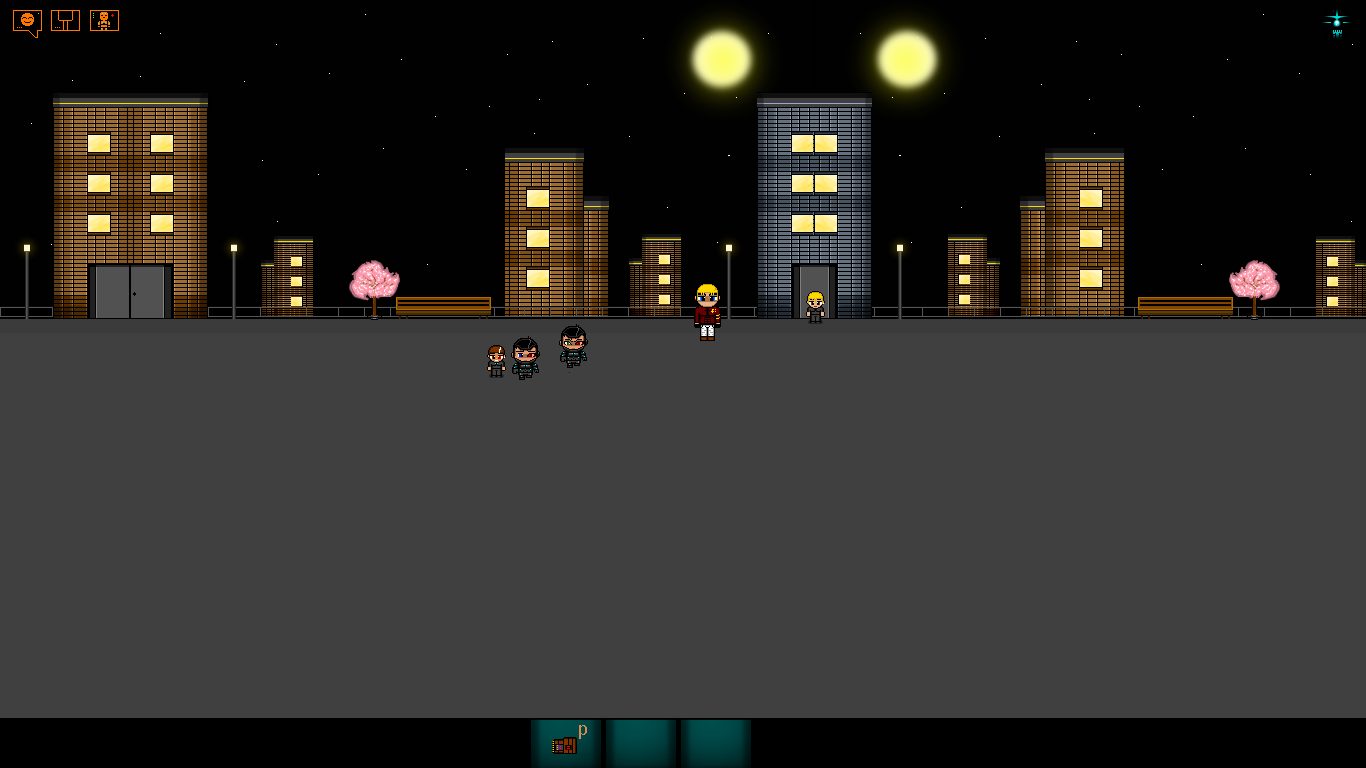
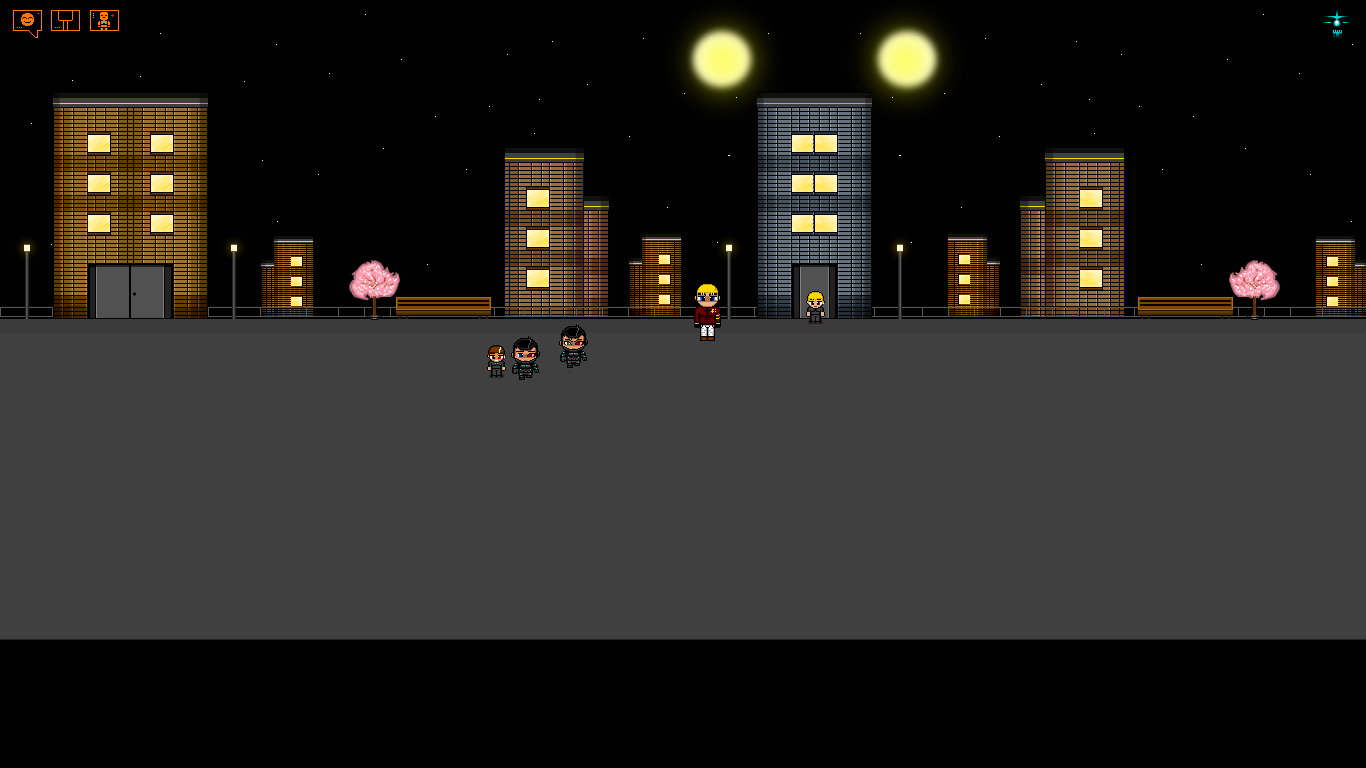
Added my project

Changed region(s): [[0.0, 0.8125, 1.0, 1.0]]

diff --git a/resources/js/modules/module1.js b/resources/js/modules/module1.js
@@ -3,9 +3,16 @@
 //TODO ----------------------------------------------
 export const prenom = "romain"
 
-export function argent (){
-let image = document.querySelector("#image")
-image.src = "img/Map%20test2.png"
-console.log(image.src);
-}
+/* export function argent() {
+    let image = document.querySelector("#image")
+    image.src = "img/Map%20test2.png"
+    console.log(image.src);
+    console.log(joueur);
+} */
 
+export function modifierargent(joueur, montant) {
+    joueur.argent += montant
+    console.log(joueur);
+    document.querySelector("#argentjoueur").textContent = joueur.argent
+
+}

diff --git a/resources/js/modules/index.js b/resources/js/modules/index.js
@@ -2,11 +2,13 @@
 //TODO ------- IMPORTS ET DECLARATION -----
 //TODO ----------------------------------------------
 const genius = $
-import { prenom, argent } from "./module1.js";
+import { Joueur } from "./classes.js";
+import { prenom, modifierargent } from "./module1.js";
 console.log(genius.date());
-
+export let joueur = new Joueur('Invité')
 console.log(prenom);
+console.log(joueur);
 
 genius.event("#button", "mousedown", () => {
-    argent()
+    modifierargent(joueur,10)
 })

diff --git a/resources/index.html b/resources/index.html
@@ -9,7 +9,13 @@
 
 <body>
   <button id="button">Test</button>
-  <img id="image" src="img/Map test.png" alt="" srcset="">
+  <img id="image" src="img/Map test.png">
+
+  <div id="blockinfojoueur">
+
+    <span id="argentjoueur"></span>
+  </div>
+
   </div>
   <!-- Neutralino.js client. This file is gitignored, 
         because `neu update` typically downloads it.

diff --git a/resources/styles.css b/resources/styles.css
@@ -22,3 +22,20 @@ button {
     left: 50%;
     z-index: 1;
 }
+
+#blockinfojoueur {
+    position: absolute;
+    color: red;
+    z-index: 2;
+    background-color: black;
+    width: 50px;
+    height: 420px;
+    top: 50%;
+    left: 50%;
+    transform: translate(-50%, -50%);
+    display: flex;
+}
+
+#logoargent {
+    width: 3%;
+}

diff --git a/resources/js/modules/classes.js b/resources/js/modules/classes.js
@@ -1,0 +1,12 @@
+export class Joueur {
+
+    constructor(nom) {
+        this.nom = nom
+        this.argent = 0
+        this.classe = 'vide'
+        this.spe = 'vide'
+    }
+
+
+
+}
